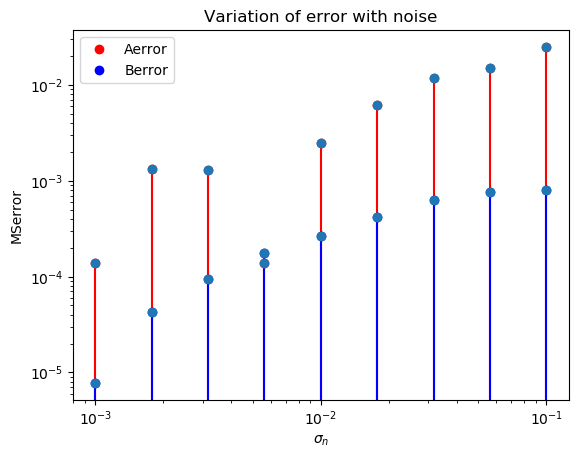
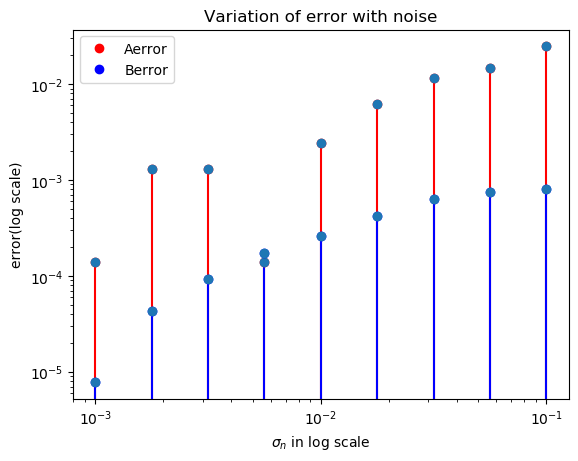
assign3 done

diff --git a/week3/EE19B123_assign3.py b/week3/EE19B123_assign3.py
@@ -127,11 +127,11 @@ def linearplot(sigma, Aerr, Berr, path):
     pylab.plot(sigma,Aerr,'bo',label='Aerror')
     pylab.plot(sigma,Berr,'ro',label='Berror')
     plt.xlabel("Noise standard deviation ->")
-    plt.ylabel('MS error')
+    plt.ylabel('error')
     plt.title('Variation of error with noise')
     plt.legend()
-    #plt.savefig(path+'.png',bbox_inches='tight')
-    #print("file saved")
+    plt.savefig(path+'.png',bbox_inches='tight')
+    print("file saved")
     plt.clf()
 
 
@@ -149,11 +149,11 @@ def logplot(sigma , Aerr, Berr, path):
     pylab.loglog(sigma,Berr,'bo', label = 'Berror')
     pylab.stem(sigma,(Berr),'-bo', use_line_collection=True)
     plt.title('Variation of error with noise')
-    pylab.xlabel('$\sigma_{n}$')
-    pylab.ylabel('MSerror')
+    pylab.xlabel('$\sigma_{n}$ in log scale')
+    pylab.ylabel('error(log scale)')
     plt.legend()
-    #plt.savefig(path+'.png',bbox_inches='tight')
-    #print("file saved")
+    plt.savefig(path+'.png',bbox_inches='tight')
+    print("file saved")
     plt.clf()
 
 
@@ -186,8 +186,8 @@ if __name__ =='__main__':
 
     e = np.asarray(estimates)
 
-    A_error = np.abs(e[:,0] -1.05)
-    B_error = np.abs(e[:,1] + 0.105)
+    A_error = np.abs(e[:,0] -1.05) # error in estimation of A
+    B_error = np.abs(e[:,1] + 0.105) # error in estimation of B 
 
     sigma = np.logspace(-1,-3,9)
 
